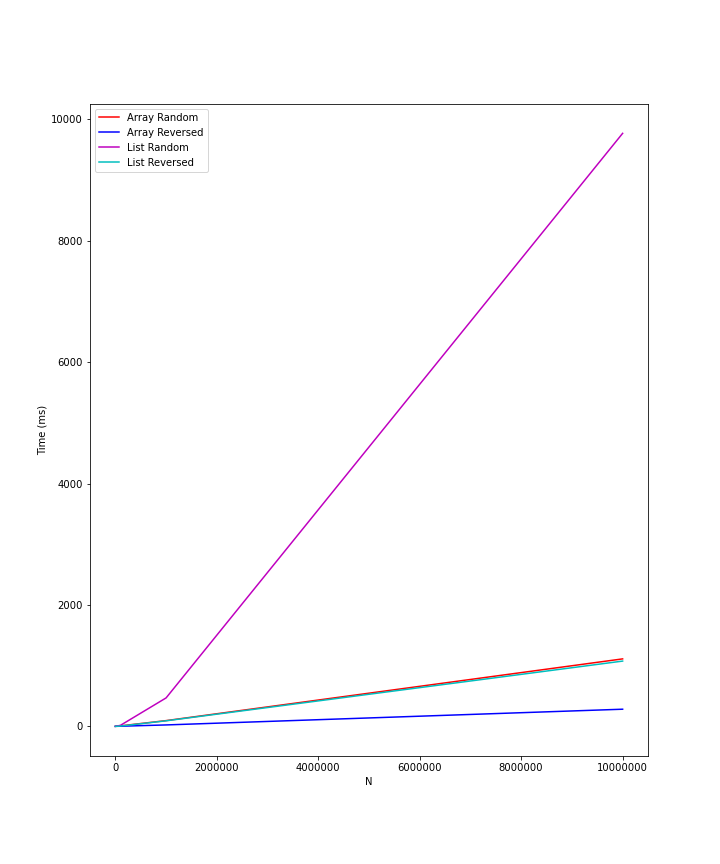
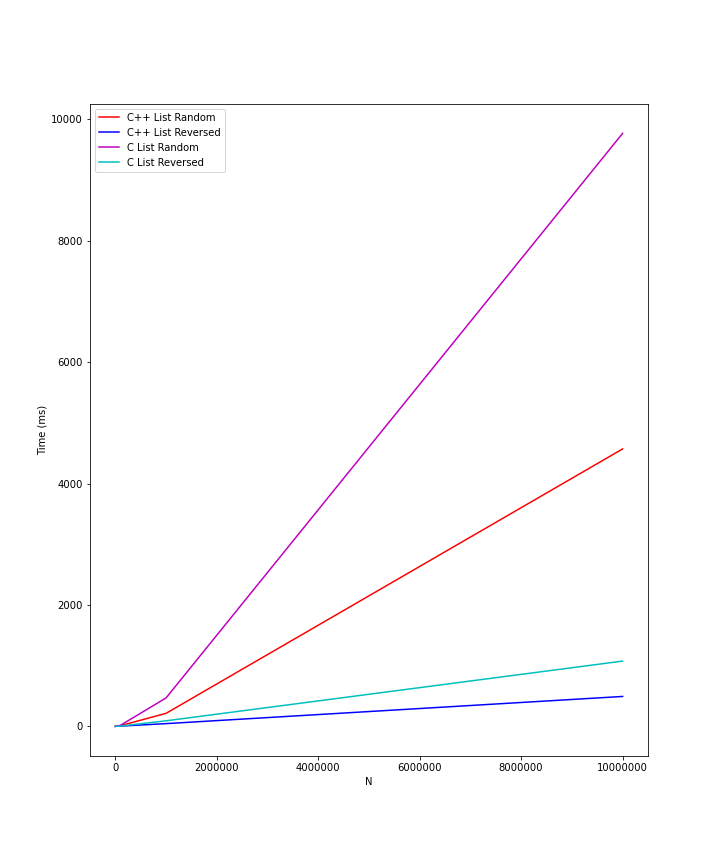
changed benchmark comparison to cpp list which is a more fair debate than array vs linked list

Changed region(s): [[0.1833, 0.8125, 0.7639, 0.8438], [0.1528, 0.125, 0.3056, 0.2188], [0.6111, 0.625, 0.6417, 0.6562]]

diff --git a/src/tests/benchmark_list.cpp b/src/tests/benchmark_list.cpp
@@ -1,0 +1,70 @@
+#include <list>
+#include <iostream>
+#include <ctime>
+#include <climits>
+#include <cstring>
+
+#define MAX_NUM UINT_MAX
+#define NLOOPS 5
+
+void usage(void) {
+    std::cerr << "Usage: \n";
+    std::cerr << "    -d DATA_STRUTURE    One of [ARRAY,LIST]  \n";
+    std::cerr << "    -n NELEM            Number of elements to sort\n";
+    std::cerr << "    -r                  Whether to use random numbers\n";
+    exit(1);
+}
+
+void test_list(unsigned n, bool r) {
+    std::cout << std::fixed;
+    clock_t before, after;
+    double total = 0;
+    unsigned temp;
+    std::list<unsigned> *l;
+
+    for (int t = 0; t < NLOOPS; ++t) {
+        l = new std::list<unsigned>;
+        if (r) {
+            for (unsigned i = 0; i < n; ++i) {
+                temp = rand() % MAX_NUM;
+                l->push_back(temp);
+            }
+        } else {
+            for (unsigned i = n; i > 0; --i) {
+                l->push_back(i);
+            }
+        }
+        before = clock();
+        l->sort();
+        after = clock();
+
+        total += (double) (after - before) / CLOCKS_PER_SEC;
+        delete l;
+    }
+    std::cout << (total / (double) NLOOPS) << '\n';
+}
+
+int main(int argc, char *argv[]) {
+    int argind = 1;
+    unsigned n = 0;
+    bool randomNums = false;
+
+    while (argind < argc && strlen(argv[argind]) > 1 && argv[argind][0] == '-') {
+        char* arg = argv[argind++];
+        switch(arg[1]) {
+            case 'n':
+                n = (unsigned) atoi(argv[argind++]);
+                break;
+            case 'r':
+                randomNums = true;
+                break;
+            default:
+                usage();
+                break;
+        }
+    }
+    srand(time(NULL));
+
+    test_list(n, randomNums);
+    return 0;
+}

diff --git a/output/sorting.md b/output/sorting.md
@@ -1,14 +1,17 @@
 Tested on a 2.2 GHz Intel Core i7. Time is in ms, the average of 5 calls to
 the sorting function.
 
-The table below compares `Array`, which uses `qsort`, to a mergesort function
-for `List`.
+The table below compares the sorting function for the C++ `std::list` to the
+mergesort function for this library's `List` structure. The C sorting function
+is roughly 2x slower than the C++ counterpart; in the future, I may optimize it. I
+suspect at least one bottleneck is the final merge in which `prev` pointers must
+be restored.
 
-| N        | Array Random | Array Reversed | List Random | List Reversed |
-|----------|--------------|----------------|-------------|---------------|
-|     100  | 0.00400      | 0.00200        | 0.00400     | 0.00200       |
-|    1000  | 0.05000      | 0.01600        | 0.05300     | 0.01900       |
-|   10000  | 0.64400      | 0.18400        | 1.42400     | 0.43800       |
-|  100000  | 7.95800      | 2.07200        | 16.60800    | 4.39800       |
-| 1000000  | 94.47500     | 23.30900       | 468.37400   | 91.26600      |
-| 10000000 | 1111.29200   | 282.32700      | 9768.22300  | 1074.95100    |
+| N        | C++ List Random | C++ List Reversed | C List Random | C List Reversed |
+|----------|-----------------|-------------------|---------------|-----------------|
+|     100  | 0.02900         | 0.01900           | 0.00400       | 0.00200         |
+|    1000  | 0.28200         | 0.16400           | 0.05300       | 0.01900         |
+|   10000  | 0.82700         | 0.80600           | 1.42400       | 0.43800         |
+|  100000  | 11.33400        | 4.09700           | 16.60800      | 4.39800         |
+| 1000000  | 214.58200       | 44.90600          | 468.37400     | 91.26600        |
+| 10000000 | 4569.80600      | 492.59700         | 9768.22300    | 1074.95100      |
